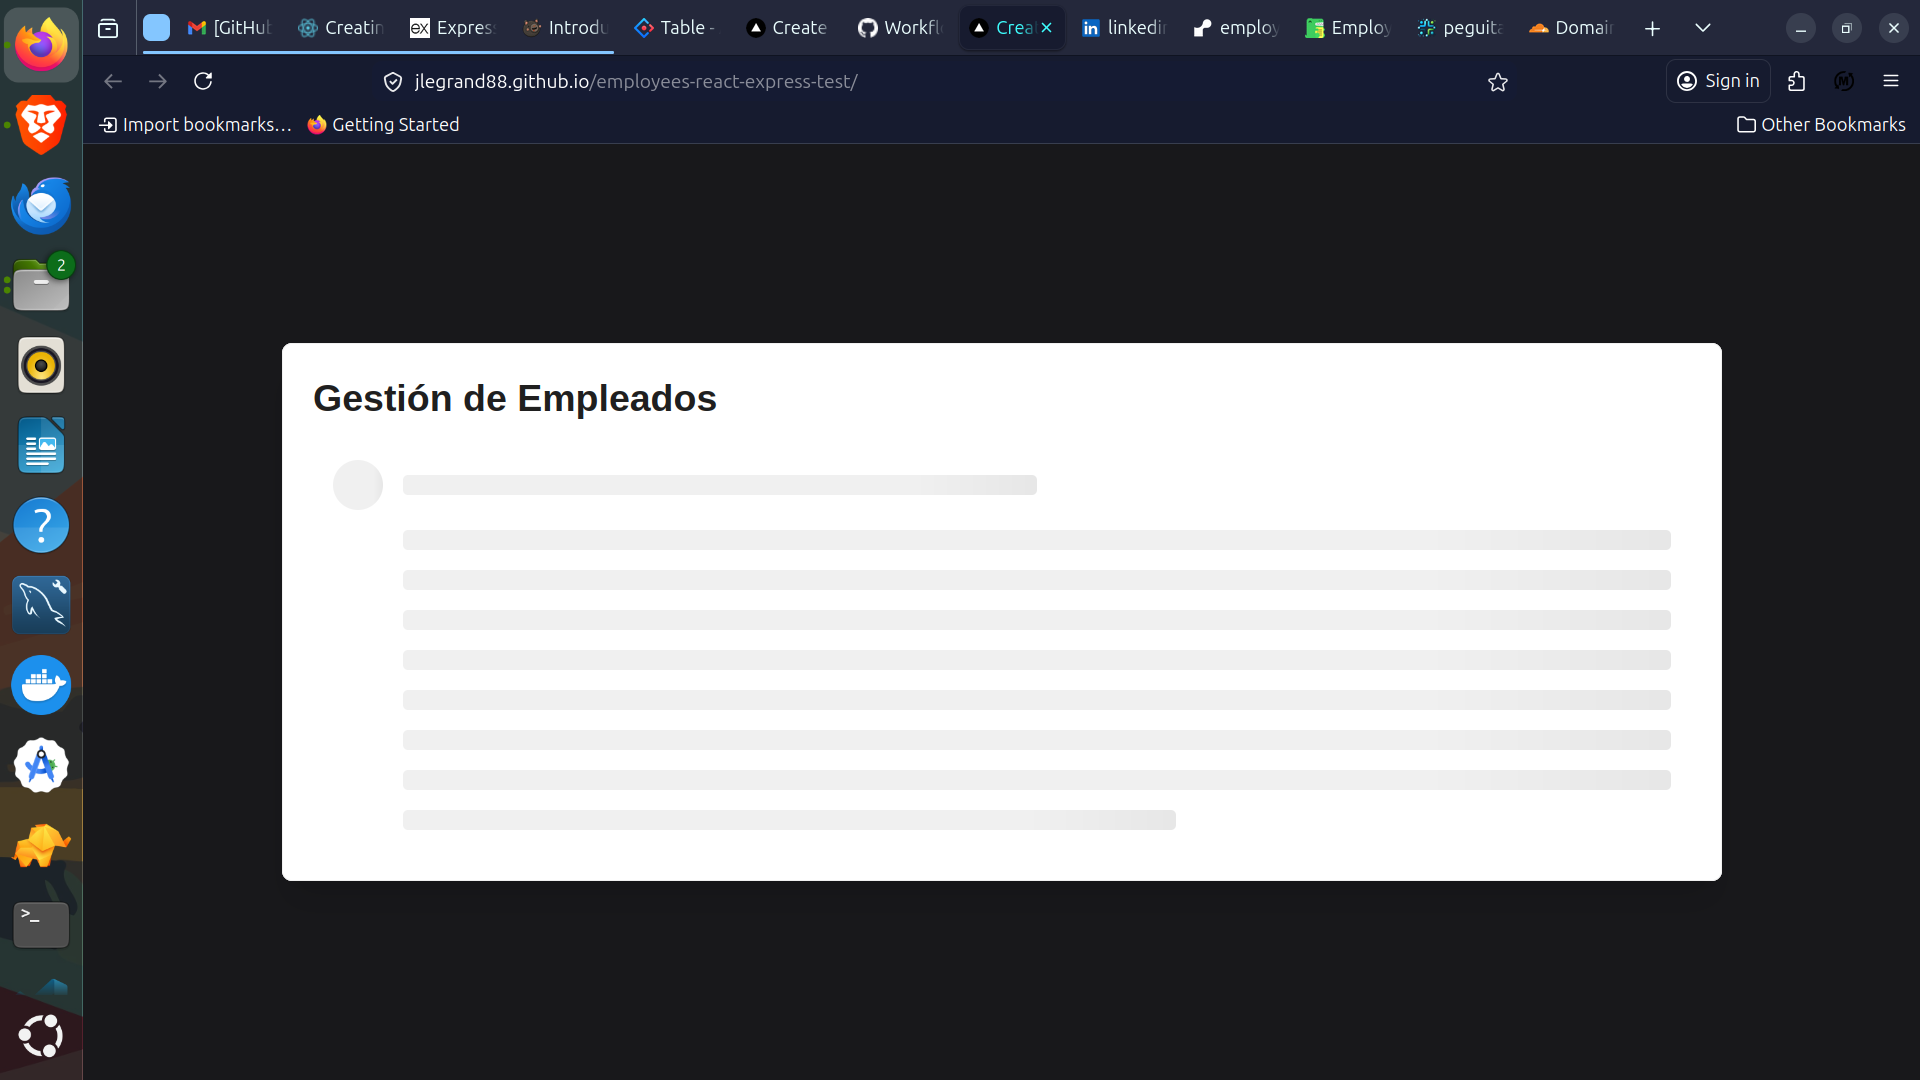
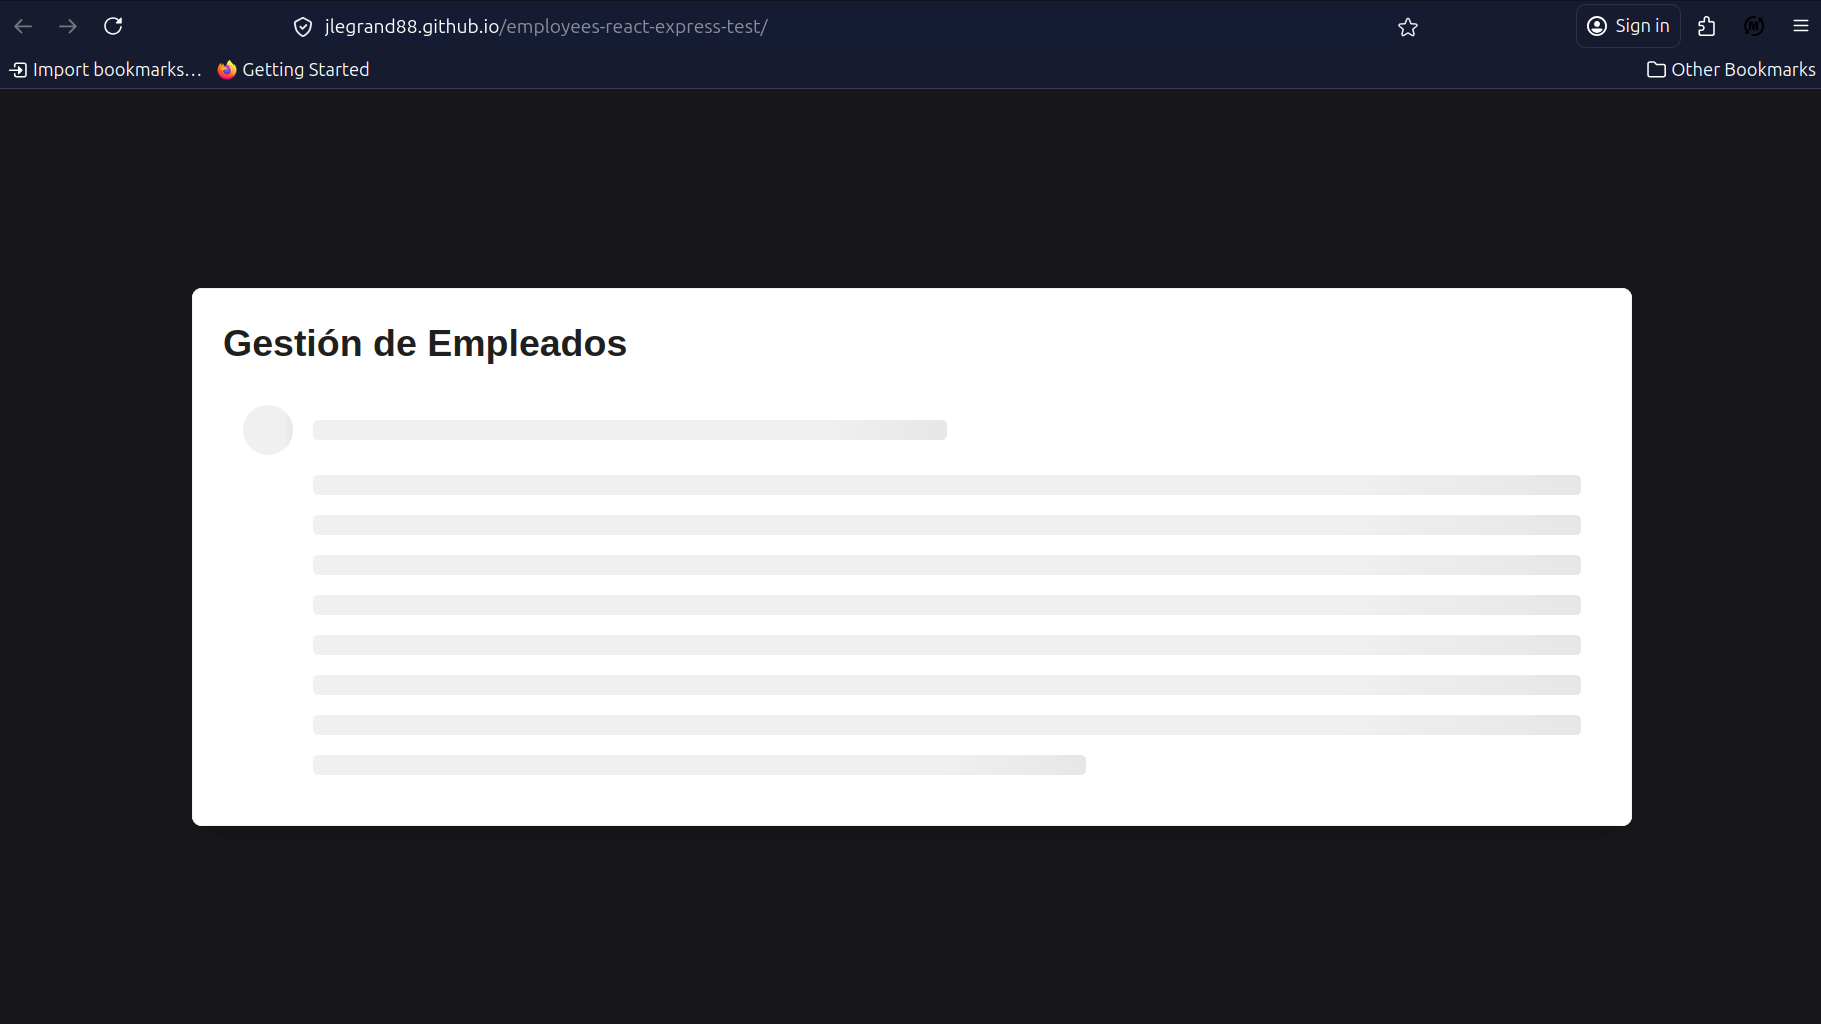
FEAT: ADD react+express challenge proyect to portfolio

Changed region(s): [[0.0923, 0.2812, 0.9226, 0.8438], [0.0, 0.0, 1.0, 1.0], [0.7688, 0.0625, 0.7996, 0.0938]]

diff --git a/i18n/es/docusaurus-plugin-content-docs/current/projects/employees-express-react-test.md b/i18n/es/docusaurus-plugin-content-docs/current/projects/employees-express-react-test.md
@@ -5,6 +5,8 @@ title: 'Employees: Challenge Técnico React & Express'
 
 :::info[Proyecto en Vivo]
 🚀 **Demo en Vivo:** [jlegrand88.github.io/employees-react-express-test/](https://jlegrand88.github.io/employees-react-express-test/)
+
+🐙 **Repositorio GitHub:** [jlegrand88/employees-react-express-test](https://github.com/jlegrand88/employees-react-express-test)
 :::
 
 **Meta:** Un desafío técnico enfocado en construir un boilerplate Fullstack escalable usando arquitectura de Monorepo, demostrando una integración profesional entre React y Express.
@@ -39,5 +41,8 @@ title: 'Employees: Challenge Técnico React & Express'
 
 ![Dashboard de Empleados](/img/projects/employees/modal.png)
 *Modal con integración de Ant Design y API REST.*
+
+![Dashboard de Empleados](/img/projects/employees/skelleton-while-loading.png)
+*Skelleton while table loading.*
 
 ---

diff --git a/docs/projects/employees-express-react-test.md b/docs/projects/employees-express-react-test.md
@@ -6,6 +6,8 @@ sidebar_position: 2
 
 :::info[Live Project]
 🚀 **Live Demo:** [jlegrand88.github.io/employees-react-express-test/](https://jlegrand88.github.io/employees-react-express-test/)
+
+🐙 **GitHub Repository:** [jlegrand88/employees-react-express-test](https://github.com/jlegrand88/employees-react-express-test)
 :::
 
 **Goal:** A technical challenge focused on building a scalable Fullstack boilerplate using a Monorepo architecture, showcasing production-ready integration between React and Express.
@@ -40,5 +42,8 @@ sidebar_position: 2
 
 ![Dashboard de Empleados](/img/projects/employees/modal.png)
 *Modal con integración de Ant Design y API REST.*
+
+![Dashboard de Empleados](/img/projects/employees/skelleton-while-loading.png)
+*Skelleton while table loading.*
 
 ---
